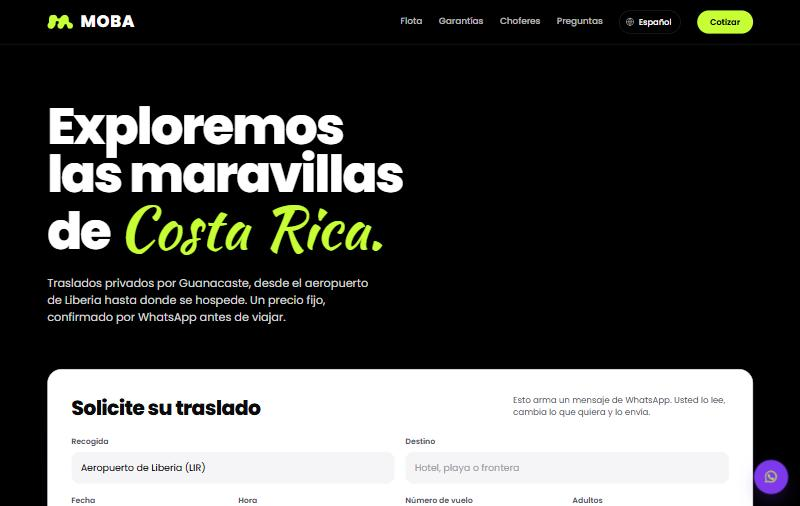
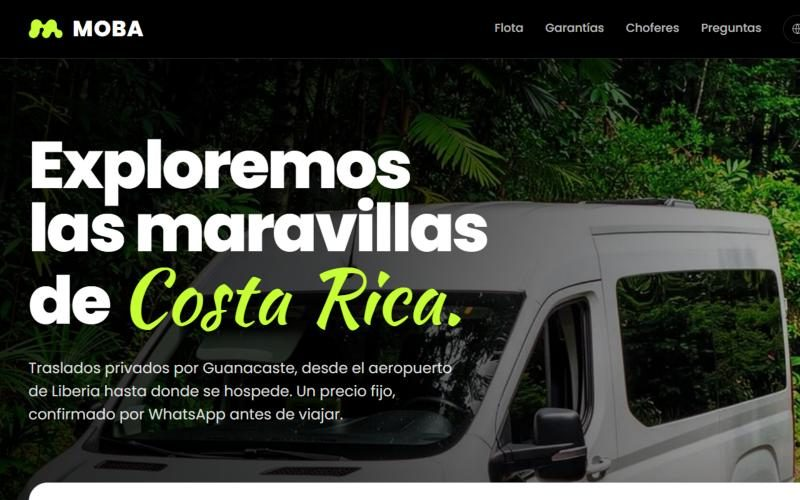
@ Refresh project mockups: proportional frames, no backing card, updated MOBA shots
- Scale PhoneFrame as one unit via container-query units so the frame keeps
  its proportions (corner radius, island, chrome) at any size
- Rework the detail-page showcase: drop the backing card; on mobile the laptop
  scales to fit with the phone sized proportionally in its bottom-left corner
- Remove the repeated "¿Querés algo así?" CTA from project pages
- Recapture MOBA from the live site (new photo hero cover + mobile home,
  refreshed Garantías) and replace the unfinished Flota shot with Preguntas

@

diff --git a/src/projects.ts b/src/projects.ts
@@ -18,8 +18,8 @@ import mosoMobileContacto from '@/assets/work/moso-solutions/mobile-contacto.jpg
 import mobaLogo from '@/assets/work/moba/logo.svg';
 import mobaCover from '@/assets/work/moba.jpg';
 import mobaMobileHome from '@/assets/work/moba/mobile-home.jpg';
-import mobaMobileFlota from '@/assets/work/moba/mobile-flota.jpg';
 import mobaMobileGarantias from '@/assets/work/moba/mobile-garantias.jpg';
+import mobaMobilePreguntas from '@/assets/work/moba/mobile-preguntas.jpg';
 
 /**
  * Proyectos reales de Nambuku. Fuente única: la home (sección "Casos destacados"),
@@ -245,14 +245,14 @@ export const projects: Project[] = [
         caption: 'Inicio',
       },
       {
-        src: mobaMobileFlota,
-        alt: 'Flota de vehículos de MOBA en celular.',
-        caption: 'Flota',
-      },
-      {
         src: mobaMobileGarantias,
         alt: 'Garantías de MOBA en celular.',
         caption: 'Garantías',
+      },
+      {
+        src: mobaMobilePreguntas,
+        alt: 'Preguntas frecuentes de MOBA en celular.',
+        caption: 'Preguntas',
       },
     ],
   },
